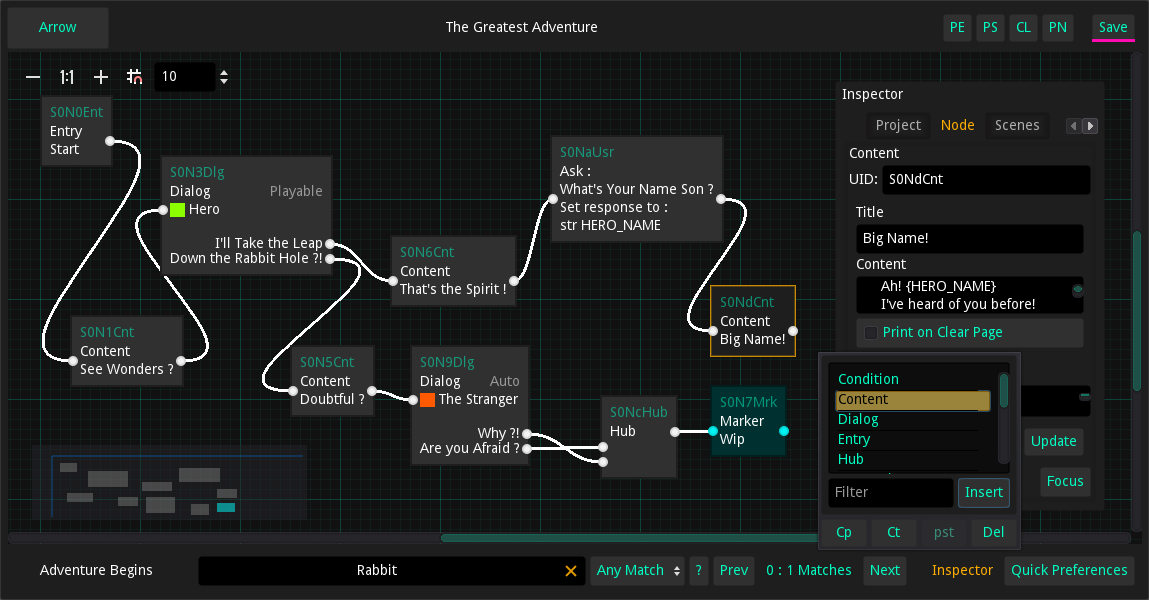
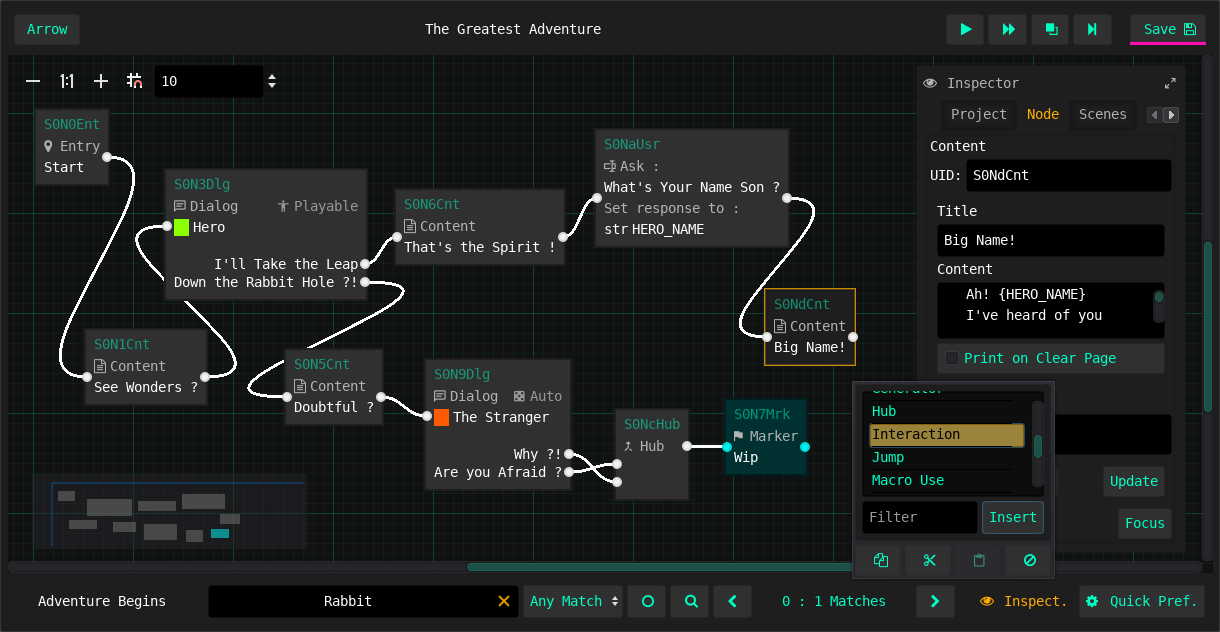
v1.4.0

diff --git a/readme.md b/readme.md
@@ -86,10 +86,10 @@ Have a Good Time
 
 <!-- download -->
 [releases]: https://github.com/mhgolkar/Arrow/releases
-[linux-x11-x86-64-latest]: https://github.com/mhgolkar/Arrow/releases/download/v1.3.0/Arrow-v1.3.0-linux-x86_64.tar.gz
-[linux-x11-x86-latest]: https://github.com/mhgolkar/Arrow/releases/download/v1.3.0/Arrow-v1.3.0-linux-x86.tar.gz
-[win-32-latest]: https://github.com/mhgolkar/Arrow/releases/download/v1.3.0/Arrow-v1.3.0-win.32.zip
-[win-64-latest]: https://github.com/mhgolkar/Arrow/releases/download/v1.3.0/Arrow-v1.3.0-win.64.zip
+[linux-x11-x86-64-latest]: https://github.com/mhgolkar/Arrow/releases/download/v1.4.0/Arrow-v1.4.0-linux-x86_64.tar.gz
+[linux-x11-x86-latest]: https://github.com/mhgolkar/Arrow/releases/download/v1.4.0/Arrow-v1.4.0-linux-x86.tar.gz
+[win-32-latest]: https://github.com/mhgolkar/Arrow/releases/download/v1.4.0/Arrow-v1.4.0-win.32.zip
+[win-64-latest]: https://github.com/mhgolkar/Arrow/releases/download/v1.4.0/Arrow-v1.4.0-win.64.zip
 <!-- wiki -->
 [wiki-home]: https://github.com/mhgolkar/Arrow/wiki/
 [wiki-quick-start-guide]: https://github.com/mhgolkar/Arrow/wiki/quick-start-guide

diff --git a/changelog.md b/changelog.md
@@ -1,6 +1,19 @@
 # Arrow: Changelog
 
 
+## v1.4.0
+
++ New Features:
+    + Connection Assist
+
++ Enhancements:
+    + UI Retouch
+    + New Quick Preferences
+        > ... for `connection assist` and `quick node insertion`
+
++ Updated License
+
+
 ## v1.3.0
 
 + New Features:
